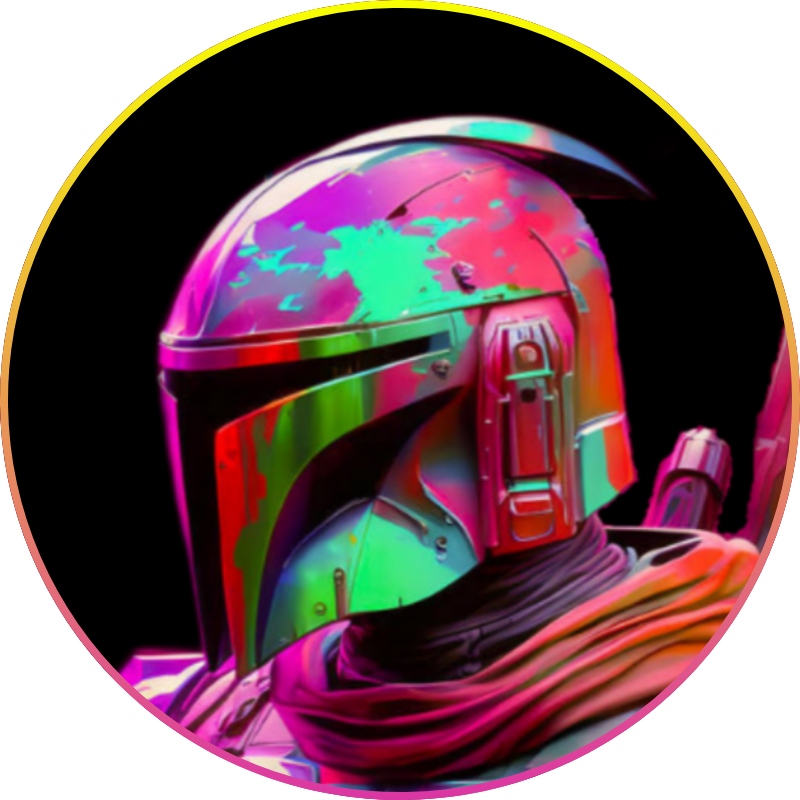
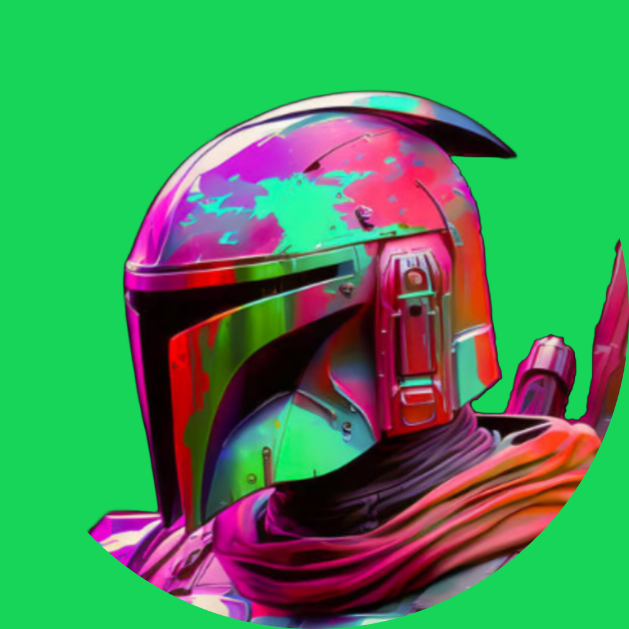
change theme and add project

diff --git a/app/(root)/(section)/skills/page.tsx b/app/(root)/(section)/skills/page.tsx
@@ -107,13 +107,13 @@ const Skills = () => {
                 className="flex flex-col xl:flex-row h-full w-full"
             >
                 <TabsList className="flex flex-col h-full gap-6  justify-start w-full xl:max-w-[280px] xl:max-h-full max-h-[250px] pb-4 xl:pb-0 px-4 xl:px-0 xl:pr-10 rounded-none">
-                    <TabsTrigger value="Frontend" className="w-full text-xl xl:text-2xl bg-dark-3 px-4 py-3 rounded-xl">
+                    <TabsTrigger value="Frontend" className="w-full text-xl xl:text-2xl bg-dark-2 px-4 py-3 rounded-xl">
                         Frontend
                     </TabsTrigger>
-                    <TabsTrigger value="Backend" className="w-full text-xl xl:text-2xl bg-dark-3 px-4 py-3 rounded-xl">
+                    <TabsTrigger value="Backend" className="w-full text-xl xl:text-2xl bg-dark-2 px-4 py-3 rounded-xl">
                         Backend
                     </TabsTrigger>
-                    <TabsTrigger value="Others" className="w-full text-xl xl:text-2xl bg-dark-3 px-4 py-3 rounded-xl">
+                    <TabsTrigger value="Others" className="w-full text-xl xl:text-2xl bg-dark-2 px-4 py-3 rounded-xl">
                         Others
                     </TabsTrigger>
                 </TabsList>
@@ -130,13 +130,13 @@ const Skills = () => {
                                     return (
                                         <TooltipProvider key={idx} delayDuration={100}>
                                             <Tooltip>
-                                                <div className="xl:w-[200px] xl:h-[200px] w-[150px] h-[150px] bg-dark-3 rounded-2xl flex justify-center items-center group">
-                                                    <TooltipTrigger className="text-8xl group-hover:text-primary-1 transition-all duration-300">
+                                                <div className="xl:w-[200px] xl:h-[200px] w-[150px] h-[150px] bg-dark-2 rounded-2xl flex justify-center items-center group">
+                                                    <TooltipTrigger className="text-8xl group-hover:text-accent-2 transition-all duration-300 cursor-default">
                                                         {skill.icon}
                                                     </TooltipTrigger>
                                                 </div>
                                                 <TooltipContent>
-                                                    <p className="text-dark-2 bg-light-1 px-4 py-3 rounded-lg">{skill.name}</p>
+                                                    <p className="text-dark-1 bg-accent-1 px-4 py-3 rounded-lg">{skill.name}</p>
                                                 </TooltipContent>
                                             </Tooltip>
                                         </TooltipProvider>
@@ -152,13 +152,13 @@ const Skills = () => {
                                     return (
                                         <TooltipProvider key={idx} delayDuration={100}>
                                             <Tooltip>
-                                                <div className="xl:w-[200px] xl:h-[200px] w-[150px] h-[150px] bg-dark-3 rounded-2xl flex justify-center items-center group">
-                                                    <TooltipTrigger className="text-8xl group-hover:text-primary-1 transition-all duration-300">
+                                                <div className="xl:w-[200px] xl:h-[200px] w-[150px] h-[150px] bg-dark-2 rounded-2xl flex justify-center items-center group">
+                                                    <TooltipTrigger className="text-8xl group-hover:text-accent-2 transition-all duration-300 cursor-default">
                                                         {skill.icon}
                                                     </TooltipTrigger>
                                                 </div>
                                                 <TooltipContent>
-                                                    <p className="text-dark-2 bg-light-1 px-4 py-3 rounded-lg">{skill.name}</p>
+                                                    <p className="text-dark-1 bg-accent-1 px-4 py-3 rounded-lg">{skill.name}</p>
                                                 </TooltipContent>
                                             </Tooltip>
                                         </TooltipProvider>
@@ -174,13 +174,13 @@ const Skills = () => {
                                     return (
                                         <TooltipProvider key={idx} delayDuration={100}>
                                             <Tooltip>
-                                                <div className=" w-[150px] h-[150px] xl:w-[200px] xl:h-[200px] bg-dark-3 rounded-2xl flex justify-center items-center group">
-                                                    <TooltipTrigger className="text-8xl group-hover:text-primary-1 transition-all duration-300">
+                                                <div className=" w-[150px] h-[150px] xl:w-[200px] xl:h-[200px] bg-dark-2 rounded-2xl flex justify-center items-center group">
+                                                    <TooltipTrigger className="text-8xl group-hover:text-accent-2 transition-all duration-300 cursor-default">
                                                         {skill.icon}
                                                     </TooltipTrigger>
                                                 </div>
                                                 <TooltipContent>
-                                                    <p className="text-dark-2 bg-light-1 px-4 py-3 rounded-lg">{skill.name}</p>
+                                                    <p className="text-dark-1 bg-accent-1 px-4 py-3 rounded-lg">{skill.name}</p>
                                                 </TooltipContent>
                                             </Tooltip>
                                         </TooltipProvider>

diff --git a/app/(root)/projects/page.tsx b/app/(root)/projects/page.tsx
@@ -42,7 +42,7 @@ const Projects = () => {
                                             {
                                                 project.tags.map((tag, idx) => {
                                                     return (
-                                                        <span key={idx} className="text-dark-2 bg-light-1 px-2 py-1 rounded-lg m-1">{tag}</span>
+                                                        <span key={idx} className="text-dark-1 bg-accent-1 px-2 py-1 rounded-lg m-1">{tag}</span>
                                                     )
                                                 })
                                             }
@@ -52,7 +52,7 @@ const Projects = () => {
                                         <TooltipProvider key={idx} delayDuration={100}>
                                             <Tooltip>
                                                 <TooltipTrigger className="xl:mx-3 rounded-2xl flex justify-center items-center group">
-                                                    <Link href={project.github} target="_blank" rel="noopener noreferrer" className="flex gap-1 px-4 py-3 rounded-lg items-center justify-center bg-dark-2">
+                                                    <Link href={project.github} target="_blank" rel="noopener noreferrer" className="flex gap-1 px-4 py-3 rounded-lg items-center justify-center bg-dark-1">
                                                         <div className="flex items-center justify-center text-2xl xl:text-3xl">
                                                             <IoLogoGithub />
                                                         </div>
@@ -61,7 +61,7 @@ const Projects = () => {
                                                         </div>
                                                     </Link>
                                                 </TooltipTrigger>
-                                                <TooltipContent className="text-light-1 bg-dark-2 px-4 py-3">
+                                                <TooltipContent className="text-light-1 bg-dark-1 px-4 py-3">
                                                     <p>View Code</p>
                                                 </TooltipContent>
                                             </Tooltip>
@@ -71,7 +71,7 @@ const Projects = () => {
                                             <TooltipProvider key={idx} delayDuration={100}>
                                                 <Tooltip>
                                                     <TooltipTrigger className="xl:mx-3 rounded-2xl flex justify-center items-center group">
-                                                        <Link href={project.demo} target="_blank" rel="noopener noreferrer" className="flex gap-1 px-4 py-3 rounded-lg items-center justify-center bg-dark-2">
+                                                        <Link href={project.demo} target="_blank" rel="noopener noreferrer" className="flex gap-1 px-4 py-3 rounded-lg items-center justify-center bg-dark-1">
                                                             <div className="flex items-center justify-center text-2xl xl:text-3xl">
                                                                 <FiExternalLink />
                                                             </div>
@@ -80,7 +80,7 @@ const Projects = () => {
                                                             </div>
                                                         </Link>
                                                     </TooltipTrigger>
-                                                    <TooltipContent className="text-light-2 bg-dark-2 px-4 py-3">
+                                                    <TooltipContent className="text-light-2 bg-dark-1 px-4 py-3">
                                                         <span className="flex items-center">
                                                             <span className="text-xl text-light-1 pr-1">
                                                                 <CiCircleInfo />

diff --git a/app/(root)/(section)/(home)/page.tsx b/app/(root)/(section)/(home)/page.tsx
@@ -7,12 +7,12 @@ export default function Home() {
     return (
         <section className="h-full w-full flex xl:pb-[3rem] flex-col">
             <div className="xl:h-[80%] w-full flex flex-col-reverse items-center xl:flex-row p-[6%] xl:px-[15%]">
-                <div className="xl:w-[60%] h-full text-4xl xl:text-5xl gap-5 flex flex-col justify-center mt-5">
+                <div className="xl:w-[60%] h-full text-4xl xl:text-5xl gap-5 flex flex-col justify-center mt-5 font-medium">
                     Hello!
                     <span className="text-3xl xl:text-4xl">
-                        I&apos;m <span className="text-primary-1">Soham Aversekar</span>
+                        I&apos;m <span className="text-primary-1 font-semibold">Soham Aversekar</span>
                     </span>
-                    <span className="text-lg xl:text-xl text-light-2">
+                    <span className="text-lg xl:text-xl text-light-2 font-normal">
                         I am a full stack developer based in Mumbai, India, currently in my second year of BE in Computer Engineering at Thadomal Shahani Engineering College. Committed to creating user-friendly websites, I am continuously expanding my technical knowledge.
                     </span>
                 </div>
@@ -34,11 +34,11 @@ export default function Home() {
                 </div>
             </div>
             <div className="h-[20%] w-full flex items-center justify-center gap-4">
-                <Link href="/resume.pdf" className="flex items-center bg-light-1 gap-2 text-dark-1 py-3 px-4 rounded-lg  hover:bg-primary-1">
+                <Link href="/resume.pdf" className="flex items-center bg-accent-1 gap-2 text-black py-3 px-4 rounded-lg  hover:bg-accent-2">
                     <MdOutlineContactPage size={30} />
                     <span className="text-lg xl:text-2xl">Resume</span>
                 </Link>
-                <Link href="https://github.com/awesohame" className="flex items-center bg-light-1 gap-2 text-dark-2 py-3 px-4 rounded-lg hover:bg-primary-1">
+                <Link href="https://github.com/awesohame" className="flex items-center bg-accent-1 gap-2 text-dark-1 py-3 px-4 rounded-lg hover:bg-accent-2">
                     <IoLogoGithub size={30} />
                     <span className="text-lg xl:text-2xl">Github</span>
                 </Link>

diff --git a/components/MobileNav.tsx b/components/MobileNav.tsx
@@ -15,12 +15,12 @@ const MobileNav = () => {
             <SheetTrigger className='flex justify-center items-center'>
                 <CiMenuFries className='text-[32px] text-primary-1' />
             </SheetTrigger>
-            <SheetContent className='flex flex-col backdrop-blur-sm bg-opacity-80 bg-dark-2'>
+            <SheetContent className='flex flex-col backdrop-blur-sm bg-opacity-80 bg-dark-1'>
                 <div className='mt-32 mb-40 text-center text-2xl'>
                     <SheetClose asChild>
                         <Link href='/'>
                             <h1 className='text-4xl text-primary-1 font-semibold'>
-                                SA
+                                awesohame
                             </h1>
                         </Link>
                     </SheetClose>
@@ -37,7 +37,7 @@ const MobileNav = () => {
                                             'text-light-1': pathname === link.path,
                                             'text-light-2': pathname !== link.path,
                                         },
-                                        `text-xl hover:text-primary-1 transition-all`
+                                        `text-xl hover:text-accent-2 transition-all`
                                     )}
                                 >
                                     {link.name}

diff --git a/components/Navbar.tsx b/components/Navbar.tsx
@@ -17,12 +17,12 @@ const Navbar = () => {
                         href={link.path}
                         key={index}
                         // className={`${link.path === pathname && 'text-primary-1 border-b-2 border-primary-1'
-                        //     } font-medium hover:text-primary-1 text-2xl text-light-2`}
+                        //     } font-medium hover:text-accent-2 text-2xl text-light-2`}
                         className={cn(
-                            "font-medium hover:text-light-1 text-xl",
+                            "font-medium hover:text-accent-2 text-xl",
                             {
-                                "text-light-2": link.path !== pathname,
-                                "text-light-1": link.path === pathname
+                                "text-accent-1": link.path !== pathname,
+                                "text-accent-2": link.path === pathname
                             }
                         )}
                     >

diff --git a/components/Footer.tsx b/components/Footer.tsx
@@ -24,7 +24,7 @@ const contacts = [
 
 const Footer = () => {
     return (
-        <footer className="bg-dark-2 text-light-1 font-extralight py-6 text-sm mt-12">
+        <footer className="bg-dark-1 text-light-1 font-extralight py-6 text-sm mt-12">
             <div className="container mx-auto px-4">
                 <div className="flex flex-col md:flex-row justify-between items-center">
                     <div className="mb-4 md:mb-0 text-center xl:text-left">
@@ -38,7 +38,7 @@ const Footer = () => {
                                 href={contact.link}
                                 target="_blank"
                                 rel="noreferrer"
-                                className="hover:text-primary-1 transition-all duration-200"
+                                className="hover:text-accent-2 transition-all duration-200"
                             >
                                 {contact.icon}
                             </Link>

diff --git a/components/ui/tabs.tsx b/components/ui/tabs.tsx
@@ -29,7 +29,7 @@ const TabsTrigger = React.forwardRef<
   <TabsPrimitive.Trigger
     ref={ref}
     className={cn(
-      "inline-flex items-center justify-center whitespace-nowrap rounded-sm px-3 py-1.5 text-sm font-medium ring-offset-background transition-all focus-visible:outline-none focus-visible:ring-2 focus-visible:ring-ring focus-visible:ring-offset-2 disabled:pointer-events-none disabled:opacity-50 data-[state=active]:bg-light-1 data-[state=active]:text-dark-2 data-[state=active]:shadow-sm",
+      "inline-flex items-center justify-center whitespace-nowrap rounded-sm px-3 py-1.5 text-sm font-medium ring-offset-background transition-all focus-visible:outline-none focus-visible:ring-2 focus-visible:ring-ring focus-visible:ring-offset-2 disabled:pointer-events-none disabled:opacity-50 data-[state=active]:bg-accent-1 data-[state=active]:text-dark-1 data-[state=active]:shadow-sm",
       className
     )}
     {...props}

diff --git a/components/ui/input.tsx b/components/ui/input.tsx
@@ -11,7 +11,7 @@ const Input = React.forwardRef<HTMLInputElement, InputProps>(
       <input
         type={type}
         className={cn(
-          "flex h-10 w-full rounded-md border-0 bg-dark-3 text-light-1 px-3 py-2 text-sm file:border-0 file:bg-transparent file:text-sm file:font-medium placeholder:text-muted-foreground focus-visible:outline-none focus-visible:border focus-visible:border-light-2 focus-visible:ring-0 disabled:cursor-not-allowed disabled:opacity-50",
+          "flex h-10 w-full rounded-md border-0 bg-dark-2 text-light-1 px-3 py-2 text-sm file:border-0 file:bg-transparent file:text-sm file:font-medium placeholder:text-muted-foreground focus-visible:outline-none focus-visible:border focus-visible:border-accent-2 focus-visible:ring-0 disabled:cursor-not-allowed disabled:opacity-50",
           className
         )}
         ref={ref}

diff --git a/app/globals.css b/app/globals.css
@@ -13,18 +13,18 @@
 }
 
 ::-webkit-scrollbar-track {
-  background: #1B1E22;
+  background: #1A1D1A;
   margin-block: 2px;
 }
 
 ::-webkit-scrollbar-thumb {
-  background: #24282d;
+  background: #223633;
   border-radius: 100vw;
-  border: #1B1E22 solid 1px;
+  border: #1A1D1A solid 1px;
 }
 
 ::-webkit-scrollbar-thumb:hover {
-  background: #e5fcf5;
+  background: #94BA4F;
 }
 
 @media (min-width: 1280px) {
@@ -33,17 +33,17 @@
   }
 
   ::-webkit-scrollbar-track {
-      background: #1B1E22;
+      background: #1A1D1A;
       margin-block: 2px;
   }
 
   ::-webkit-scrollbar-thumb {
-      background: #24282d;
+      background: #223633;
       border-radius: 100vw;
-      border: #1B1E22 solid 3px;
+      border: #1A1D1A solid 3px;
   }
 
   ::-webkit-scrollbar-thumb:hover {
-      background: #e5fcf5;
+      background: #94BA4F;
   }
 }

diff --git a/tailwind.config.ts b/tailwind.config.ts
@@ -17,29 +17,20 @@ const config = {
     extend: {
       colors: {
         primary: {
-          1: '#ffc54d'
+          1: '#16D559',
         },
         dark: {
-          1: '#000000',
-          2: '#1B1E22',
-          3: '#24282d'
+          1: '#1A1D1A',
+          2: '#223633'
         },
         light: {
-          1: '#e5fcf5',
-          2: '#6D8881'
+          1: '#D6FFD1',
+          2: '#ACC9A9'
+        },
+        accent: {
+          1: '#D6FFD1',
+          2: '#94BA4F'
         }
-      },
-      mono: {
-        1: '#76520e',
-        2: '#805b10',
-        3: '#926c15',
-        4: '#a47e1b',
-        5: '#b69121',
-        6: '#c9a227',
-        7: '#dbb42c',
-        8: '#ffc54d',
-        9: '#fad643',
-        10: '#ffe169'
       },
       keyframes: {
         "accordion-down": {

diff --git a/components/ui/textarea.tsx b/components/ui/textarea.tsx
@@ -10,7 +10,7 @@ const Textarea = React.forwardRef<HTMLTextAreaElement, TextareaProps>(
     return (
       <textarea
         className={cn(
-          "flex min-h-[80px] w-full rounded-md border-0 bg-dark-3 text-light-1 px-3 py-2 text-sm ring-offset-background placeholder:text-muted-foreground focus-visible:outline-none focus-visible:border focus-visible:border-white focus-visible:ring-0 disabled:cursor-not-allowed disabled:opacity-50",
+          "flex min-h-[80px] w-full rounded-md border-0 bg-dark-2 text-light-1 px-3 py-2 text-sm ring-offset-background placeholder:text-muted-foreground focus-visible:outline-none focus-visible:border focus-visible:border-accent-2 focus-visible:ring-0 disabled:cursor-not-allowed disabled:opacity-50",
           className
         )}
         ref={ref}

diff --git a/constants/index.ts b/constants/index.ts
@@ -26,6 +26,14 @@ export const projects = [
         demo: 'https://vista-zoom-clone.vercel.app/',
         img: '/assets/projectimages/vista.png'
     },
+    {
+        name: 'Clean N Green',
+        desc: 'An E-commerce webapp with the goal of promoting eco-friendly products. This project was made at the hackathon DUHacks 3.0 and secured a top 15 position out of 156 participating teams from the entire nation.',
+        tags: ['Nextjs', 'Typescript'],
+        github: 'https://github.com/awesohame/33_git-push--f_DUhacks',
+        demo: 'https://devfolio.co/projects/clean-n-green-0445',
+        img: '/assets/projectimages/cleanngreen.png'
+    },
     // {
     //     name: "Discord JS Music bot",
     //     desc: "A Discord bot with music and basic moderation commands.",
